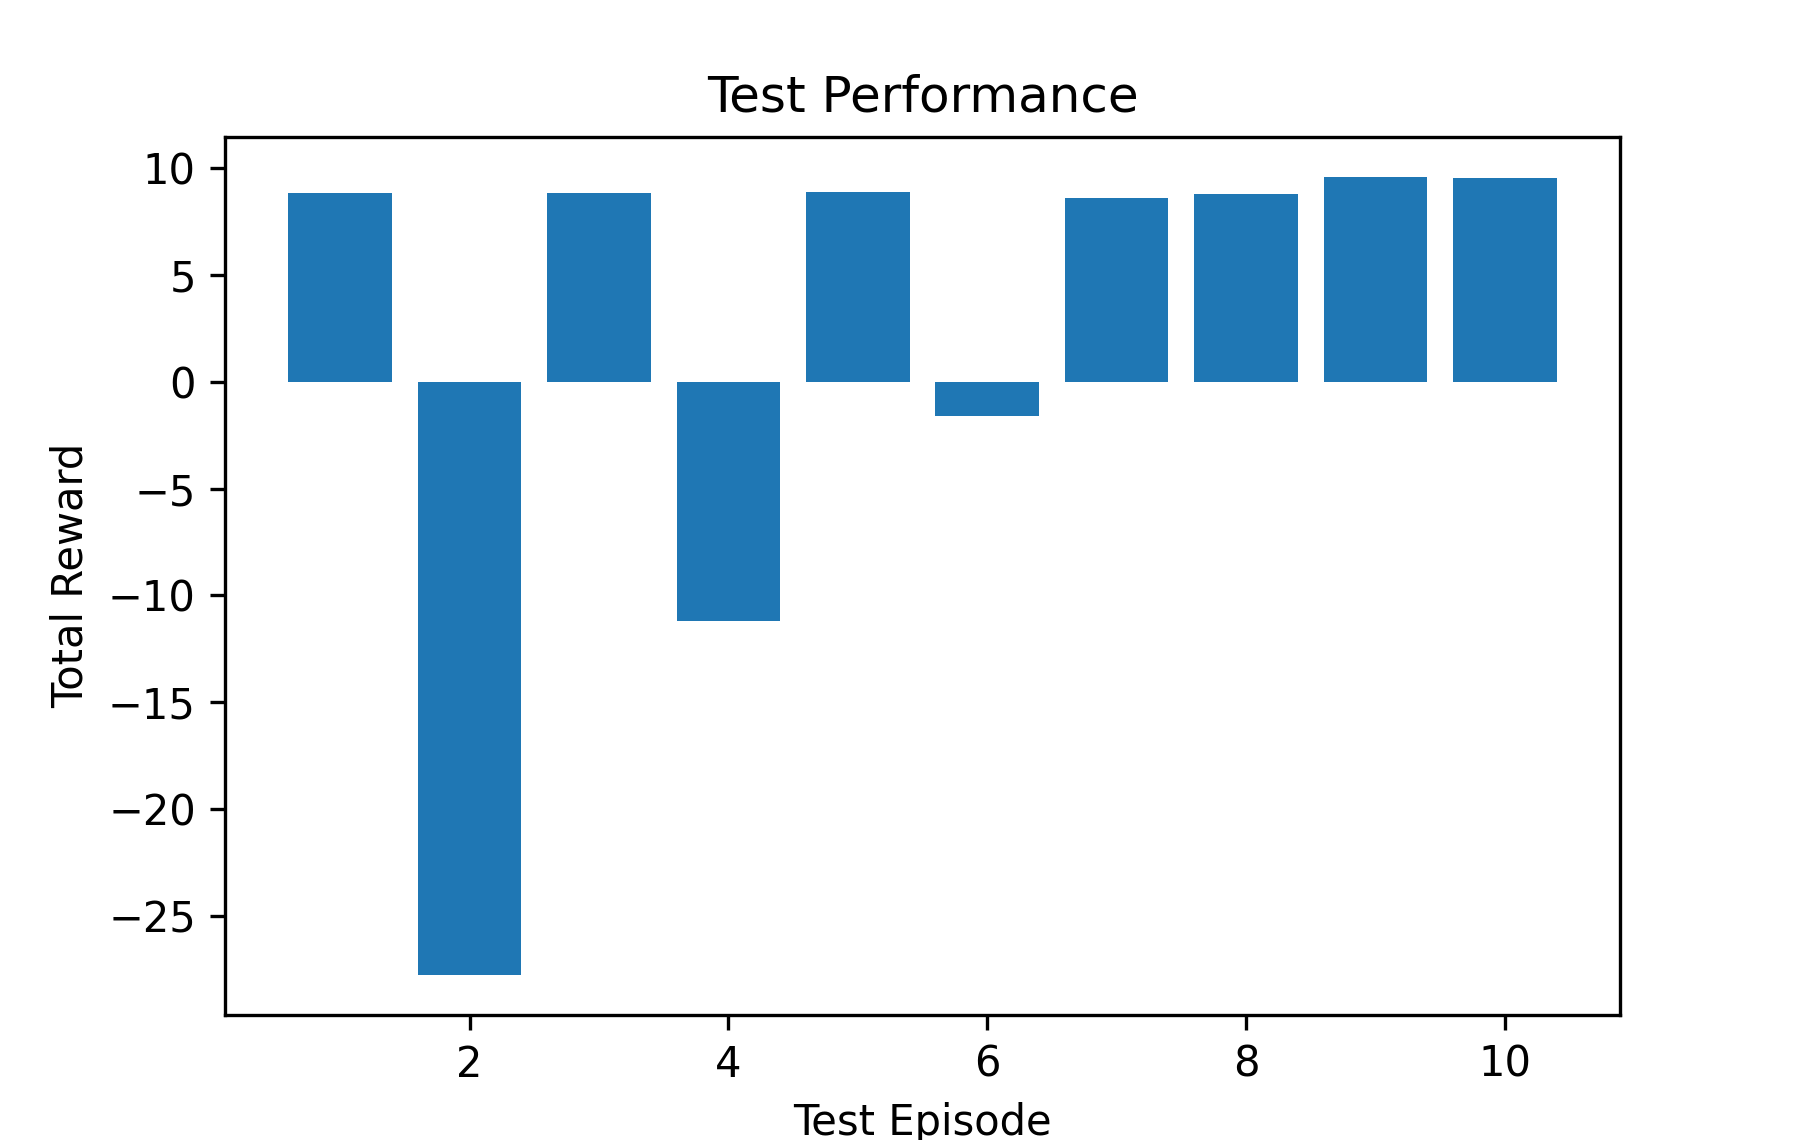
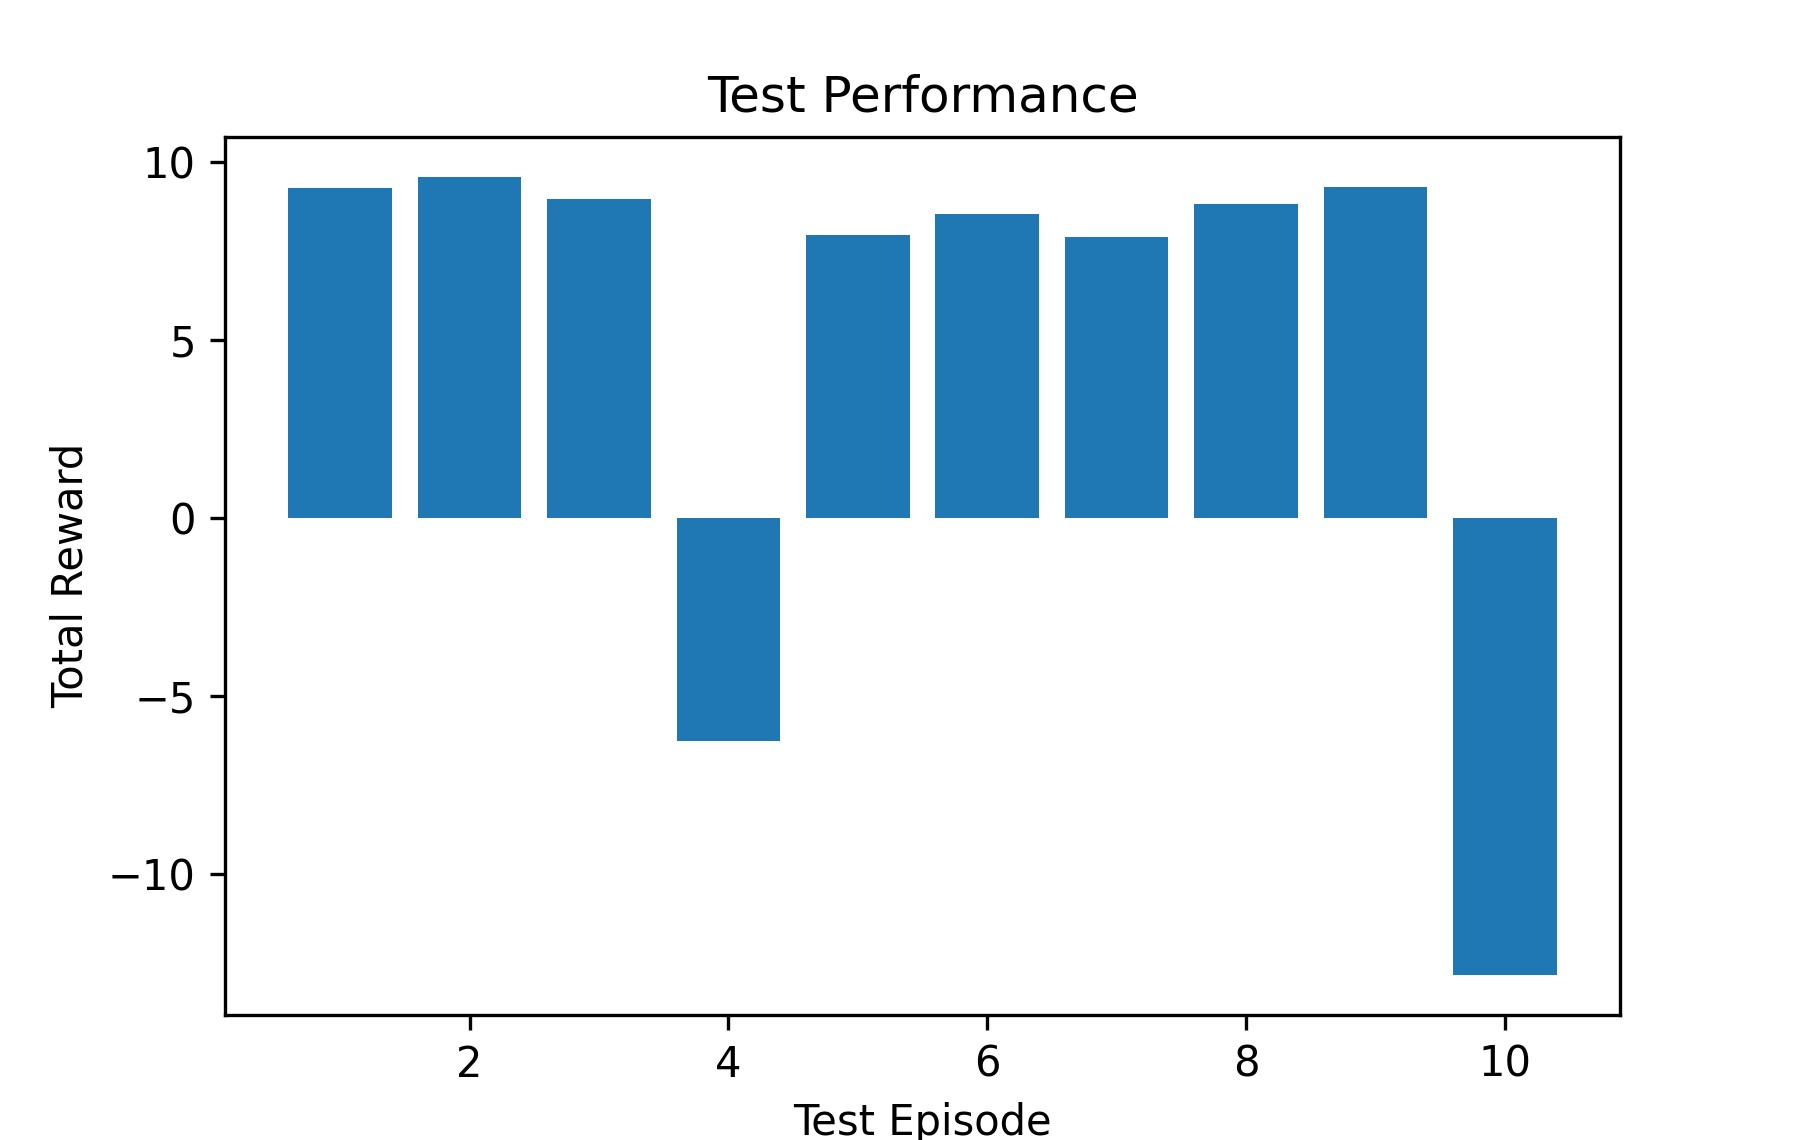
more testing and act saved for greedy

diff --git a/src/hockey-env/run_client.py b/src/hockey-env/run_client.py
@@ -6,9 +6,10 @@ import hockey.hockey_env as h_env
 from Agents.utils.actions import MORE_ACTIONS
 from comprl.client import Agent, launch_client
 from Agents.Random.random_agent import RandomAgent
-from Agents.Tapas_en_Mallorca.old.Agent import Combined_Agent
+
 from Agents.Prio_n_step.Prio_DQN_Agent import Prio_DQN_Agent
-from Agents.Combined_Agent_Double.Dueling_DDQN_Agent import Dueling_DDQN_Agent as Previous_Combined_Agent
+from Agents.Pablo.Adaptative_Dueling_Double_DQN.Agent import Adaptative_Dueling_Double_DQN 
+from Agents.Tapas_en_Mallorca.Adaptative_Dueling_Double_DQN.Agent import Adaptative_Dueling_Double_DQN_better_mem
 
 
 SEED_TRAIN_1 = 7489
@@ -27,7 +28,7 @@ def initialize_agent(agent_args: list[str]) -> Agent:
     parser.add_argument(
         "--agent",
         type=str,
-        choices=["random", "Prio_DQN", "Previous_Combined_DQN", "DDDQN", Combined_Agent],
+        choices=["random", "Prio_DQN", "Pablo", "Combined" ],
         default="random",
         help="Which agent to use.",
     )
@@ -49,7 +50,7 @@ def initialize_agent(agent_args: list[str]) -> Agent:
     elif args.agent == "Prio_DQN":
         env_name = "../weights/prio_agent_self_play_17_2_25"
         env = h_env.HockeyEnv()
-        h_env.HockeyEnv().seed(seed)
+       
 
         state_space = env.observation_space
 
@@ -71,10 +72,11 @@ def initialize_agent(agent_args: list[str]) -> Agent:
         )
         agent.Q.load(env_name, name=episode)
 
-    elif args.agent == "Previous_Combined_DQN":
-        env_name = "../weights/combined_training_6_2_25"
+    
+    elif args.agent == "Pablo":
+        env_name = "../last_chance/"
         env = h_env.HockeyEnv()
-        h_env.HockeyEnv().seed(seed)
+      
 
         state_space = env.observation_space
 
@@ -83,7 +85,7 @@ def initialize_agent(agent_args: list[str]) -> Agent:
         else:
             action_space = env.discrete_action_space
 
-        agent = Previous_Combined_Agent(
+        agent = Adaptative_Dueling_Double_DQN(
             state_space,
             action_space,
             seed=seed,
@@ -94,58 +96,27 @@ def initialize_agent(agent_args: list[str]) -> Agent:
             use_more_actions=USE_MORE_ACTIONS,
             env=env,
         )
-        agent.Q.load(env_name, name=episode)
-
-    elif args.agent == "DDDQN":
-        env_name = "../weights/combined_training_6_2_25"
+        agent.Q.load(env_name, name="most_recent")
+    elif args.agent == "Combined":
+        env_name = "../weights/Noisy_Dueling_Double_DQN_n_step_4_adaptive"
         env = h_env.HockeyEnv()
-        h_env.HockeyEnv().seed(seed)
-
-        state_space = env.observation_space
-
-        if USE_MORE_ACTIONS:
-            action_space = spaces.Discrete(len(MORE_ACTIONS))
-        else:
-            action_space = env.discrete_action_space
-
-        agent = Previous_Combined_Agent(
-            state_space,
-            action_space,
+        agent = Adaptative_Dueling_Double_DQN_better_mem(
+            env.observation_space,
+            env.discrete_action_space,
             seed=seed,
             eps=0.01,
             learning_rate=0.0001,
             hidden_sizes=[256, 256],
-            n_steps=5,
             use_more_actions=USE_MORE_ACTIONS,
             env=env,
-        )
-        agent.Q.load(env_name, name=episode)
-    elif args.agent == "Combined_agent":
-        env_name = "../weights/Dueling_Double_DQN_Prio_n_step_5"
-        env = h_env.HockeyEnv()
-        h_env.HockeyEnv().seed(seed)
-
-        state_space = env.observation_space
-
-        if USE_MORE_ACTIONS:
-            action_space = spaces.Discrete(len(MORE_ACTIONS))
-        else:
-            action_space = env.discrete_action_space
-
-        agent = Combined_Agent(
-            state_space,
-            action_space,
-            env = env,
-            seed = seed,
-            use_eps_decay = False,
-            use_dueling = True,
-            use_double = True,
-            use_noisy = True,
+            use_noisy=True,
+            use_dueling=True,
+            use_double=True,
             use_prio = True,
-            n_step = args.n_step,
-            hidden_sizes = [256, 256]
+            n_step = 4,
         )
-        agent.Q.load(env_name, name=episode)
+        
+
     else:
         raise ValueError(f"Unknown agent: {args.agent}")
 

diff --git a/src/hockey-env/Agents/Tapas_en_Mallorca/Adaptative_Dueling_Double_DQN/Agent.py b/src/hockey-env/Agents/Tapas_en_Mallorca/Adaptative_Dueling_Double_DQN/Agent.py
@@ -131,6 +131,9 @@ class Adaptative_Dueling_Double_DQN_better_mem(Agent):
     def get_step(self, state):
 
         state = np.array(state)
+           
+        if self.use_noisy:
+            self.Q.reset_noise()
         action = self.Q.greedyAction(state).tolist()
 
         if self.use_more_actions:
